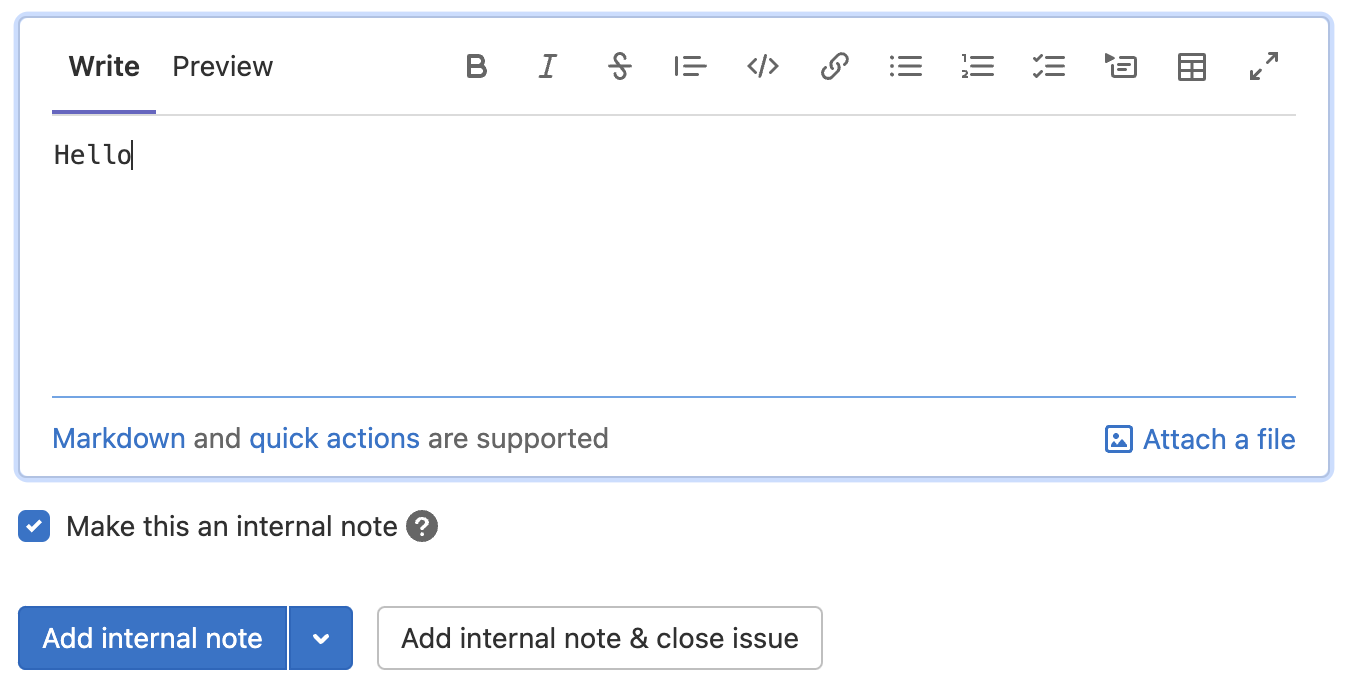
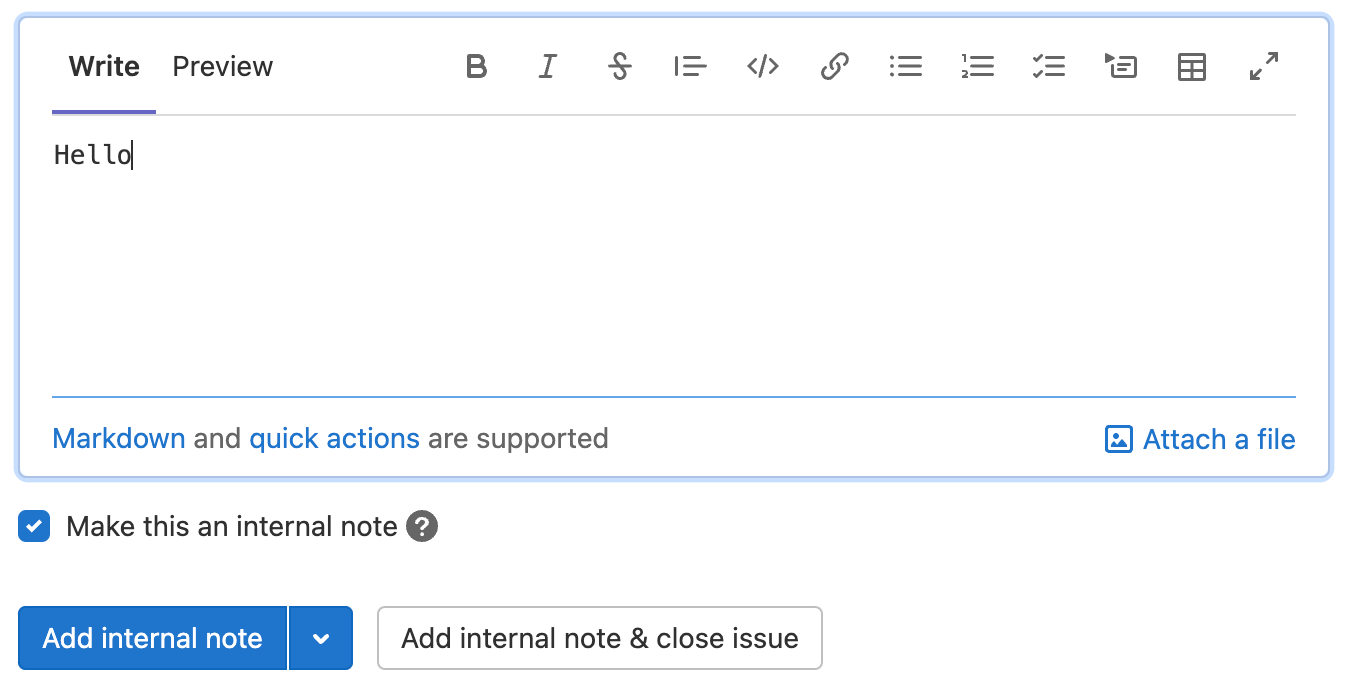
Compress docs images

diff --git a/doc/user/project/issues/confidential_issues.md b/doc/user/project/issues/confidential_issues.md
@@ -36,7 +36,7 @@ The second way is to locate the Confidentiality section in the sidebar and click
 
 | Turn off confidentiality | Turn on confidentiality |
 | :-----------: | :----------: |
-| ![Turn off confidentiality](img/turn_off_confidentiality.png) | ![Turn on confidentiality](img/turn_on_confidentiality.png) |
+| ![Turn off confidentiality](img/turn_off_confidentiality_v15_0.png) | ![Turn on confidentiality](img/turn_on_confidentiality_v15_0.png) |
 
 Every change from regular to confidential and vice versa, is indicated by a
 system note in the issue's comments.
